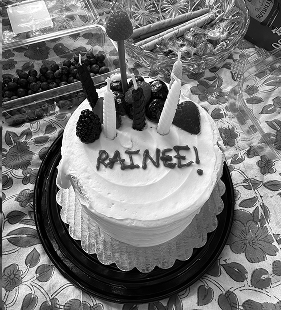
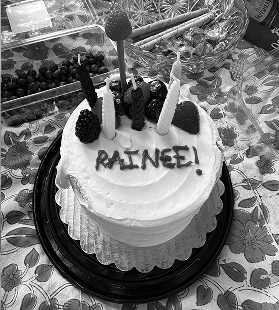
Add fourth photo to homepage collage
Re-crop the panels from the updated source image, which now includes a
fourth bokeh/sparkle photo alongside the snacks, selfie, and cake shots.

diff --git a/src/components/HomeGrid.tsx b/src/components/HomeGrid.tsx
@@ -8,9 +8,10 @@ const TRAIL_MIN_DISTANCE = 15;
 const TRAIL_LIFETIME_MS = 900;
 
 const PHOTO_PANELS = [
-  { src: "/images/home/porthome-1.png", naturalWidth: 412 },
-  { src: "/images/home/porthome-2.png", naturalWidth: 297 },
-  { src: "/images/home/porthome-3.png", naturalWidth: 281 },
+  { src: "/images/home/porthome-1.png", naturalWidth: 279 },
+  { src: "/images/home/porthome-2.png", naturalWidth: 413 },
+  { src: "/images/home/porthome-3.png", naturalWidth: 279 },
+  { src: "/images/home/porthome-4.png", naturalWidth: 295 },
 ];
 const PHOTO_NATURAL_WIDTH = PHOTO_PANELS.reduce((sum, p) => sum + p.naturalWidth, 0);
 const PHOTO_NATURAL_HEIGHT = 310;
@@ -103,7 +104,7 @@ export default function HomeGrid() {
               className="relative h-full"
               style={{ width: (panel.naturalWidth / PHOTO_NATURAL_WIDTH) * photo.width }}
             >
-              <Image src={panel.src} alt="" fill className="object-cover" priority />
+              <Image src={panel.src} alt="" fill sizes="400px" className="object-cover" priority />
             </div>
           ))}
         </div>
